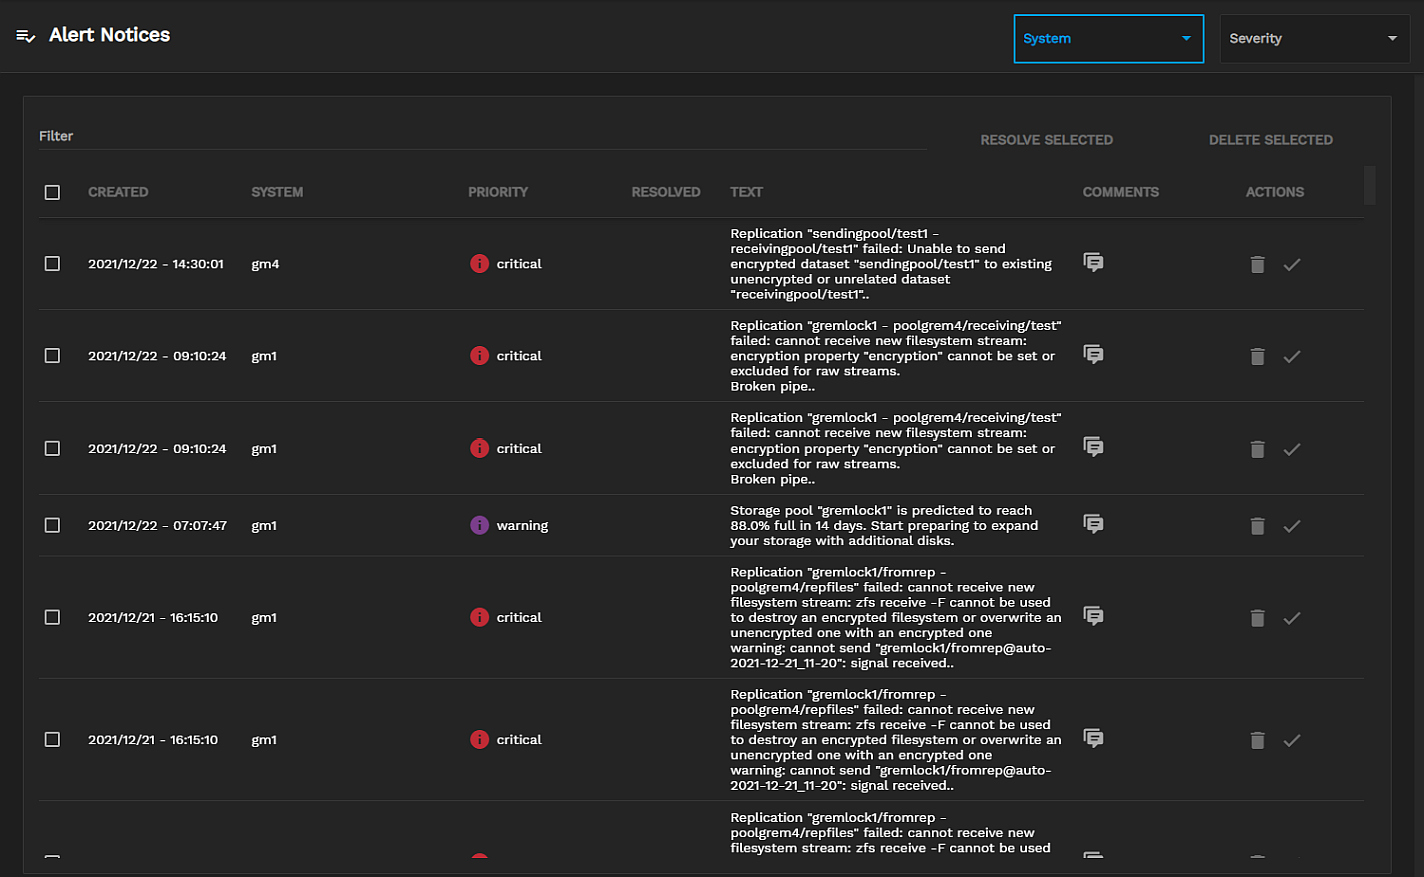
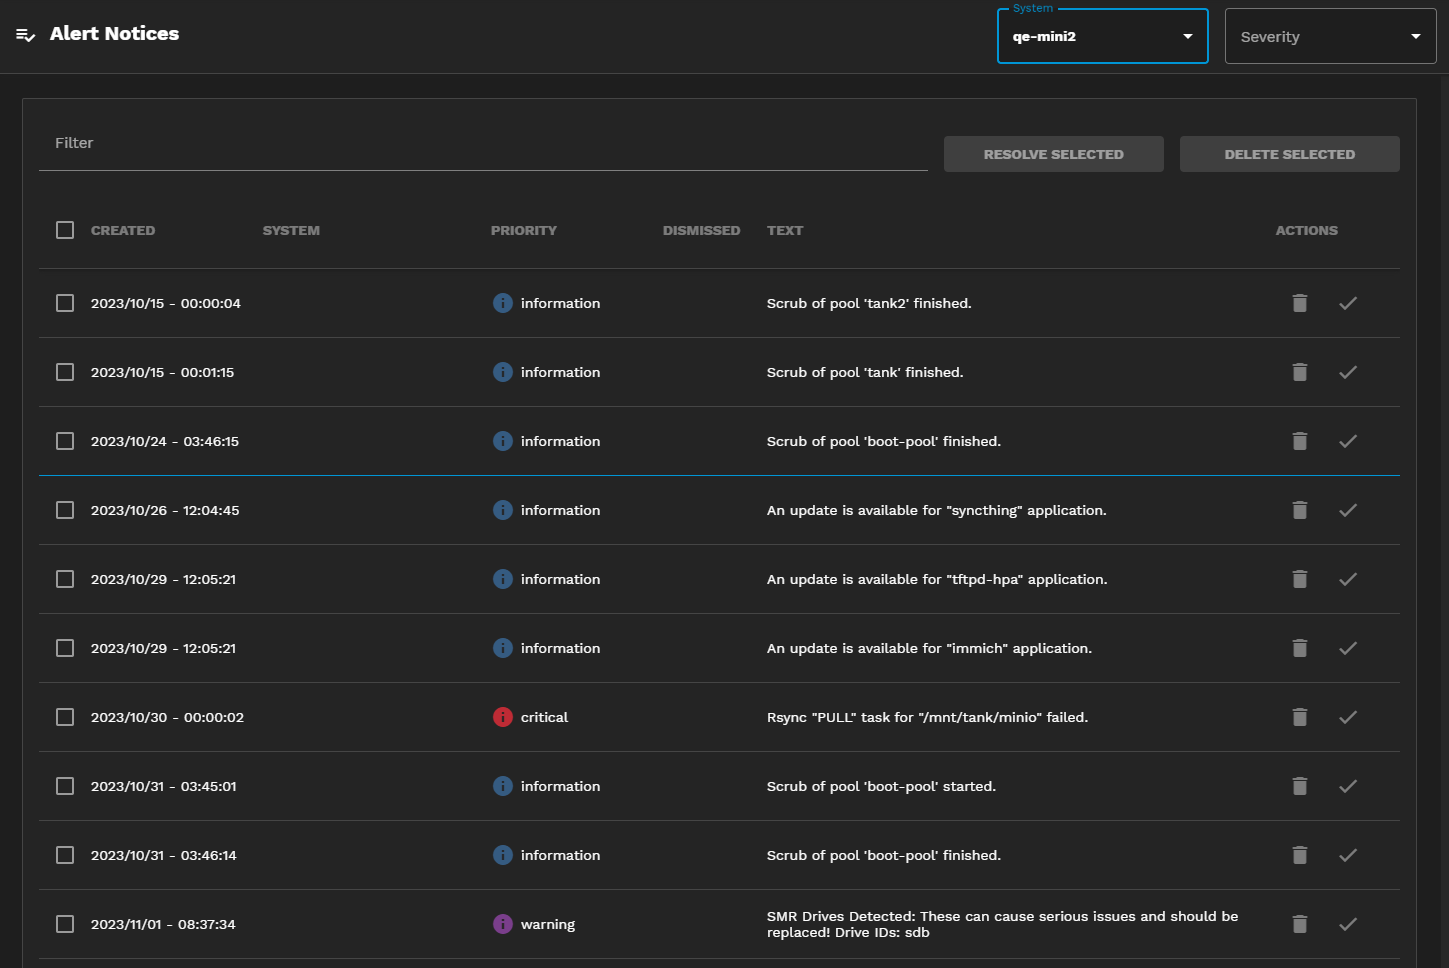
PD-824 Reorganize Alerts Article Content
This commit updates the AlertManage.md article content, replaces out of date screenshots and information.
Retitles the article to Managing Alerts, changes the tags and taglists.
Adds information on the Fleet Dashboard

diff --git a/content/TrueCommand/UserGuide/Alerts/AlertManage.md b/content/TrueCommand/UserGuide/Alerts/AlertManage.md
@@ -1,149 +1,138 @@
 ---
-title: "Alert Management"
+title: "Managing Alerts"
 description: "Provides information on the alert screens and functions in TrueCommand. It also provides instructions on managing alerts, alert rules, and setting up alert services."
 weight: 10
 aliases:
   - /truecommand/alerts/alertmanage/
   - /truecommand/tcgettingstarted/configurealert/
 tags:
-- tcsmtp
-- tcalerts
-- tcemail
-- tcpagerduty
+- tcuser
+- tcadmin
 ---
 
 {{< toc >}}
 
 TrueCommand alerts provide visual warnings for monitored systems that require attention.
-Monitored systems and TrueCommand alert rules can both generate alerts.
+Monitored TrueNAS systems and TrueCommand alert rules can both generate alerts.
+
+TrueCommand can discover and show TrueNAS system alerts created created in the last two months. 
+Alerts older than this do not show in TrueCommand. 
+
+Administrator accounts can see all system alerts but non-administrator accounts can only see alerts on systems they are permitted to access.
 
 TrueCommand provides three alert screen options:
 * **All Alerts** displays all alerts from systems that TrueCommand monitors.
 * **Alert Rules** allows administrators and users with permissions to configure alerts for monitored systems.
 * **Alert Services** allows administrators to configure communication plugins.
 
-The **All Alerts**, **Dashboard**, and **Systems** screens display alert indications.
+The **All Alerts**, **Fleet Dashboard**, main **Dashboard**, and **Systems** and **System Inventory** screens display alert indications.
 
-## All Alerts Screens and Functions
-{{< hint type=note >}}
-TrueCommand discovers and shows alerts from a TrueNAS system if it is created in the last two months. Alerts older than this do not show in TrueCommand.
-{{< /hint >}}
-
-To see alerts TrueCommand discovers, open the **Configure** <i class="material-icons" aria-hidden="true" title="Settings">settings</i> menu and click **All Alerts**.
-Administrator accounts can see all system alerts.
-Non-administrator accounts can only view alerts according to their team and user account permissions.
+## All Notices Screens and Functions
+To view a list of all system alerts TrueCommand discovers, click the gear <i class="material-icons" aria-hidden="true" title="Settings">settings</i> icon, then click **All Alerts**. The **Alert Notices** screen opens.
 
 ![AllAlerts](/images/TrueCommand/Alerts/AllAlerts.png "All Alerts")
 
-### Viewing Alerts by System
+Select the checkbox to the left of **CREATED** at the top of the list of alerts to select all alerts. Selecting one or more alerts activates the **Resolve Selected** and **Delete Selected** buttons.
 
-Alerts generated by a monitored system display on both the **Systems** screen and the system card or detail single system view on the **Dashboard** as a number to the right of the system name.
+Click the delete <span class="material-icons">delete</span> icon to remove the alert from TrueCommand.
+Click the checkmark <span class="iconify" data-icon="ion:checkmark-sharp"></span> icon to dismiss the alert.
 
-![DashboardSystemAlerts](/images/TrueCommand/Dashboard/DashboardSystemAlerts.png "Dashboard System Alerts")
+### Viewing Alerts
+The **Fleet Dashboard** includes an **Alerts** widget that lists alerts discovered by TrueCommand for all managed systems.
 
-To view all alerts for a single system from the **Dashboard**, click on the system name to open the system details screen. The **Alerts** area displays the systems alerts.
+System widgets on the main **Dashboard** and the **Systems** screen display blue alert bubbles with the number of alerts discovered for a TrueNAS system.
+
+![DashboardSingleSystemview](/images/TrueCommand/Dashboard/DashboardSingleSystemView.png "Dashboard System Widget Alerts")
+
+Click on the system name on a main **Dashboard** system widget to open the detailed single system screen. Each single system detail screen includes an **Alerts** widget that displays alerts for that system. 
 
 ![DashboardSystemDetailAlerts](/images/TrueCommand/Dashboard/DashboardSystemDetailAlerts.png "Dashboard System Detail Alerts")
 
-Click the <span class="iconify" data-icon="mdi:mdi-comment-text-multiple"></span> icon in the **Alerts** area of the system detail screen to display the **Notice Details** side panel with information about the alert and any user comments made.
+Click the arrow icon at the top right corner of the single system **Alerts** widget to open the **Alert Notices** screen. 
+Alternatively, click the gear icon on the top toolbar, then click **All Alerts** to open the same **Alert Notices** screen.
 
-To view all alerts from the **Systems** screen system list, click the **Configure** <i class="material-icons" aria-hidden="true" title="Settings">settings</i> menu and then click **Systems**.
-
-![SystemsList](/images/TrueCommand/Systems/SystemsList.png "Systems List")
-
-Just as with the systems detail alerts, click on the <span class="iconify" data-icon="mdi:comment-text-multiple"></span> icon in the **COMMENTS** column to display the **Notice Details** side panel with information about the alert and any user comments made.
+To view all alerts from the **Systems** screen system list, click the blue alert bubble to open the single system detail screen with the **Alerts** widget. 
 
 ### Resolving Alerts
+To resolve an alert, select the checkbox to the left of the alert, then click **RESOLVE SELECTED**. A green checkmark displays in the **Dismissed** column.
 
-You can move an alert in the **All Alerts** screen to the **RESOLVED** column by clicking the **Resolve** <i class="material-icons" aria-hidden="true" title="Check">check</i> to the right of the delete icon.
+![AllAlertsResolvedAlert](/images/TrueCommand/Alerts/AllAlertsResolvedAlert.png "All Alert Resolved Alert")
 
-To resolve multiple alerts, select each alert checkbox, then click **RESOLVE SELECTED**.
-
-Click the <span class="iconify" data-icon="mdi:comment-text-multiple"></span> icon in the **COMMENTS** column to display the **Notice Details** side panel with information about the alert and any user comments made.
-
-![AllAlertDetails](/images/TrueCommand/Alerts/AllAlertDetails.png "All Alert Details")
-
-To resolve an alert on the system detail screen **Alerts** area, click **Resolve alert notice** <i class="material-icons" aria-hidden="true" title="Check">check</i> to the left of the comments icon.
-
-![SystemResolveAlertNotice](/images/TrueCommand/Alerts/SystemResolveAlertNotice.png "System Resolve Alert Notice")
+To resolve multiple alerts, select the checkbox for each alert, then click **RESOLVE SELECTED**.
 
 ### Deleting Alerts
+Administrator accounts can delete alerts from the single system detailed screen **Alerts** widget and from the **Alert Notices** screen.
 
-Administrator accounts can delete an alert by clicking the <i class="material-icons" aria-hidden="true" title="Delete">delete</i> icon.
 Deleting an alert cannot be undone.
-To delete multiple alerts, select each alert checkbox and click **DELETE SELECTED** <i class="material-icons" aria-hidden="true" title="Delete">delete</i>.
+
+Click the <i class="material-icons" aria-hidden="true" title="Delete">delete</i> icon on the **Alert Notices** screen. A delete confirmation dialog displays.
+
+To delete multiple alerts, select each alert checkbox, then click **DELETE SELECTED**.
 
 ## Alert Rules Screens and Functions
+Only administrator accounts can create alert rules.
 
-Alert rules generate alerts in TrueCommand.
-TrueCommand has several built-in default rules.
+TrueCommand alert rules monitor system information and generate a TrueCommand alert if specific conditions occur.
+TrueCommand has several built-in default alert rules listed on the **Alert Rules** screen.
+Alert rules define alert options and triggers that can generate alerts for a system.
 TrueCommand administrators and [team members]({{< relref "/TrueCommand/TCGettingStarted/UserAccounts.md" >}}) with the appropriate permissions can create new alert rules.
 
-To view all TrueCommand alert rules, open the **Configure** <i class="material-icons" aria-hidden="true" title="Settings">settings</i> menu and click **Alert Rules**.
+To view all TrueCommand alert rules, click the gear <i class="material-icons" aria-hidden="true" title="Settings">settings</i>icon, then click **Alert Rules**.
 
 ![AlertRulesScreen](/images/TrueCommand/Alerts/AlertRulesScreen.png "Alert Rules Screen")
 
-The **Alert Rules** screen details each TrueCommand alert rule and shows which user account created it.
+The **Alert Rules** screen details each TrueCommand alert rule, the administrator user account that created it, the alert rule priority level, name, and system.
 
 ### Managing Alert Rules
+Administrator users can activate, pause, edit, or delete alert rules. 
 
-Users can activate, suspend, edit, or delete alert rules using either an administrator account or the one that created them.
-Users can create new TrueCommand alert rules to monitor system information and generate a TrueCommand alert if specific conditions occur.
-To create a new alert rule, click **+ NEW ALERT RULE** and follow the creation wizard:
+To create a new alert rule, click **NEW ALERT RULE**, then follow the creation wizard:
 
 ![AlertRulesCreate](/images/TrueCommand/Alerts/AlertRulesCreate.png "Create new Alert Rule")
 
 To create a new rule:
 
-1. Specify the **Alert Options**.
-   a. Enter a name into the **Alert Rule Name** field.
-   b. Select a system from the **System** drop-down.
-     The rule applies to the selected system(s). Non-administrative user accounts require appropriate system permissions.
-   c. Select the alert type on the **Priority** drop-down list. Choose **Information**, **Warning**, or **Critical** to determine the alert category generated.
-   d. Type a description for the alert.
+1. Enter the **Alert Options**.
+   a. Enter a name in **Alert Rule Name**.
+   b. Select a system **System** to apply the rule to. Non-administrative user accounts require appropriate system permissions.
+   c. Select the alert type in **Priority**. Choose **Information**, **Warning**, or **Critical** to determine the alert category generated.
+   d. Enter an optional description for the alert.
 2. Specify the **Alert Triggers**.
-
-   a. Select a data source or rule type from the dropdown list to determine what can trigger an alert. 
-      For example, *cpu_temperature* means the alert rule monitors the temperature of the chosen system. Scroll down the list to find the desired source.
+   a. Select a metric. 
+      For example, *cpu_temperature* means the alert rule monitors the temperature of the chosen system. Scroll down to find a desired source.
 
    ![AlertTriggerDataSources](/images/TrueCommand/Alerts/AlertTriggerDataSources.png "Alert Trigger Data Sources")
 
-   b. Select the comparison type from the **Comparator** dropdown list (**Greater Than**, **Less Than**, or **Not Equals**).
+   b. Select a comparison type in **Comparator** (**Greater Than**, **Less Than**, or **Not Equals**).
       The comparison type applies to the data source and comparison value. 
-
-   c. Specify the comparison value by entering an integer appropriate for the selected options in the **Value** field. 
+   c. Enter the comparison value by entering an integer appropriate for the selected options in the **Value** field. 
       The integer acts as a threshold or limitation for when the rule generates an alert.
-      
-3. Click **CREATE ALERT** to finish creating the new alert rule. To start over, click **RESET**.
+3. Click **SAVE ALERT RULE ** to finish creating the new alert rule. To start over, click **RESET**.
 
 ## Alert Services Screens and Functions
-{{< hint type=note >}}
 Configurable alert services are only available for local installations or containerized TrueCommand deployments.
 TrueCommand Cloud instances use email alerts by default; PagerDuty is not an option.
-{{< /hint >}}
 
 TrueCommand uses different service plugins to expand how it communicates alerts to users or administrators.
 Individual user accounts can use service plugins to manage how TrueCommand notifies them of a system alert.  
 
 ### Configuring Alert Services
-
-To configure an alert service plugin, open the **Configure** <i class="material-icons" aria-hidden="true" title="Settings">settings</i> menu and click **Alert Services**. There are two alert services listed:
-
-* **PagerDuty** which is a plugin to configure a pager to receive an alert.
-* **SMTP Email** which is a plugin to configure system SMTP and and user email services.
+To configure an alert service plugin, click the gear <i class="material-icons" aria-hidden="true" title="Settings">settings</i> icon, then click **Alert Services**. 
+TrueCommand has two alert services:
+* **PagerDuty** plugin that configures a pager to receive an alert.
+* **SMTP Email** plugin that configures system SMTP and user email services.
 
 ![Alert Services Screen](/images/TrueCommand/Alerts/AlertServiceScreen.png "Alert Services")
 
 Each plugin has three options:
-
-* **Send test email** <span class="iconify" data-icon="mdi:test-tube"></span>
+* **Send test alert** <span class="iconify" data-icon="mdi:test-tube"></span>
 * **Configure plugin** <i class="material-icons" aria-hidden="true" title="Settings">settings</i> 
 * **Clear plugin configuration** <mat-icon _ngcontent-ath-c200="" role="img" class="mat-icon notranslate material-icons mat-icon-no-color" aria-hidden="true">remove_circle</mat-icon> 
 
 ### Configuring SMTP Email
 {{< hint type=note >}}
-Before proceeding, verify that the sending mailserver has TLS enabled.
-TrueCommand cannot send emails through a mailserver without TLS.
+Before proceeding, verify that the sending mail server has TLS enabled. 
+TrueCommand cannot send emails through a mail server without TLS.
 The user profile page must have an email address to receive emails.
 {{< /hint >}}
 
@@ -153,35 +142,42 @@ To configure SMTP service:
    
    ![AlertServiceSMTPEmailScreen](/images/TrueCommand/Alerts/AlertServiceSMTPEmailScreen.png "Alert Services: SMTP Email options")
 
-   * **Mailserver** (*smtp.gmail.com* for example)
-   * **Mailserver port** number the mail service uses
-   * **Auth user** email address for plain authentication, for example, *adminuser@yourmail.com*
-   * **Auth pass** password for the plain authentication; for a *No-Auth* SMTP configuration, leave the password field blank
-     If configuring smtp.gmail.com, create an **App Password** in the gmail account for the gmail account. Enter this passcode here to configure gmail SMTP service authentication,
-   * **From** is what sends the email (i.e., no-reply@TrueCommand.io) or allows you to customize the sender field of the email 
-   * **Tls** initiates a connection with TLS, and uses system settings.
+   Enter the host name for the mail server in **Mailserver** (*smtp.gmail.com* for example).
 
-  Click **Test** on the **SMTP Email** configuration screen to verify that the configuration is correct.
-  If you did not receive a test alert email, check the values entered for accuracy.
+   Enter the port number for the mail server in **Mailserver port**.
 
-  The system displays pop-up messages to prompt you if you have not added the email address for the administration user account (root or admin user).
+   Enter the email address for plain authentication in **Auth user**, for example, *adminuser@yourmail.com*, and the password for plain authentication in **Auth pass**. For a *No-Auth* SMTP configuration, leave the password field blank.
+   If configuring smtp.gmail.com, create an **App Password** in the gmail account for the gmail account. 
 
-2. Click on the avatar to the right of the **Configure** <i class="material-icons" aria-hidden="true" title="Settings">settings</i> menu and then click **Profile** from the drop-down list.
+   Enter this passcode here to configure gmail SMTP service authentication.
+
+   Enter the address that sends the email (i.e., no-reply@TrueCommand.io) or allows you to customize the sender field of the email in **From**
+
+   Select **Tls** to initiate a connection with TLS.
+
+   Click **Test** on the **SMTP Email** configuration screen to verify that the configuration is correct.
+   If you do not receive a test alert email, check the values entered are accurate.
+
+   The system displays pop-up messages to prompt you if the email address for the administration user account (root or admin user) is not added.
+
+2. Click on the avatar to the right of the gear <i class="material-icons" aria-hidden="true" title="Settings">settings</i> icon, then click **Profile**.
      
    ![EditUserProfile](/images/TrueCommand/Alerts/EditUserProfile.png "Edit User Profile")
 
 3. Type the email for that user in the **Email** field and click **SAVE CHANGES**.
    The first time you set up SMTP email, a **VERIFY EMAIL** button displays below the **Email** field to the left of the **Enable 2FA** checkbox.
 
-   The system should automatically send a test email to the specified email address. If it doesn't, click **VERIFY EMAIL**.
-   In the **Confirm** dialog box,  enter or copy/paste the code emailed to verify the email.
+   The system should automatically send a test email to the specified email address. 
+   If not, click **VERIFY EMAIL**.
+   Enter or copy/paste the code emailed to verify the email in the **Confirm** dialog.
    
    ![SMTPSetupVerifyEmail](/images/TrueCommand/Users/SMTPSetupVerifyEmail.png "SMTP Setup Verify Email")
 
 ### Configuring PagerDuty
 
 Open the **Configure Plugin** <i class="material-icons" aria-hidden="true" title="Settings">settings</i> for PagerDuty.
-Enter your PagerDuty API key in the **Authtoken** field. If you have an active subscription with PagerDuty, the key should be available to you. Click **TEST**.
+Enter the pagerDuty API key in the **Authtoken** field. 
+If you have an active subscription with PagerDuty, the key should be available to you. Click **TEST**.
 
 ![AlertServicesPagerDutyOptions](/images/TrueCommand/Alerts/AlertServicesPagerDutyOptions.png "Alert Services: Pager Duty options")
 
@@ -191,3 +187,6 @@ You should see the triggered test alert from TrueCommand.
 ![PagerDutyTestConfirm](/images/TrueCommand/PagerDutyTestConfirm.png "Confirming the Pager Duty test")
 
 If you did not receive a test alert, check the PagerDuty API key for accuracy in the alert service plugin configuration section.
+
+{{< taglist tag="tcadmin" limit="10" title="Related Admin Guide Articles" >}}
+{{< taglist tag="tcuser" limit="10" title="Related User Guide Articles" >}}
